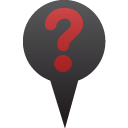
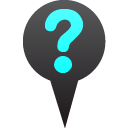
a few new tagtypes

Changed region(s): [[0.3438, 0.0625, 0.6562, 0.5938]]

diff --git a/.TexFlasher/tagger.py b/.TexFlasher/tagger.py
@@ -38,8 +38,11 @@ from difflib import get_close_matches
 import itertools, collections
 import ConfigParser
 
-
-
+def open_xml_file(file_path):
+	try:
+		return xml.parse(file_path)		  
+	except:
+		return False
 ########################################################## Comment on fc ##############################################################
 
 def tag_command(tagtype,xml_path,tags,fc_tag,canvas,item,user):
@@ -85,6 +88,42 @@ def tag_command(tagtype,xml_path,tags,fc_tag,canvas,item,user):
 		
 		
 class RectTracker:
+
+	def question_tag(self):
+	  image = Image.open(".TexFlasher/pictures/question_fix.png")
+	  image = image.resize(self.follow_size, Image.ANTIALIAS)
+	  image = ImageTk.PhotoImage(image)
+	  self.canvas.tag_follow_image=image	  
+	  self.canvas.current_tag="question"	  
+	  self.canvas.tag_fix="qu"
+	  self.canvas.tag_follow=("question",self.tags_tag)
+	  
+	def link_tag(self):
+	  image = Image.open(".TexFlasher/pictures/link_fix.png")
+	  image = image.resize(self.follow_size, Image.ANTIALIAS)
+	  image = ImageTk.PhotoImage(image)
+	  self.canvas.tag_follow_image=image
+	  self.canvas.current_tag="link"
+	  self.canvas.tag_fix="li"
+	  self.canvas.tag_follow=("link",self.tags_tag)
+
+	def repeat_tag(self):
+	  image = Image.open(".TexFlasher/pictures/repeat_fix.png")
+	  image = image.resize(self.follow_size, Image.ANTIALIAS)
+	  image = ImageTk.PhotoImage(image)
+	  self.canvas.tag_follow_image=image
+	  self.canvas.current_tag="repeat"
+	  self.canvas.tag_fix="rep"
+	  self.canvas.tag_follow=("repeat",self.tags_tag)
+
+	def watchout_tag(self):
+	  image = Image.open(".TexFlasher/pictures/watchout_fix.png")
+	  image = image.resize(self.follow_size, Image.ANTIALIAS)
+	  image = ImageTk.PhotoImage(image)
+	  self.canvas.tag_follow_image=image
+	  self.canvas.current_tag="watchout"
+	  self.canvas.tag_fix="wa"
+	  self.canvas.tag_follow=("watchout",self.tags_tag)
   
 	def __init__(self, canvas,dir,user):
 		self.canvas = canvas
@@ -93,9 +132,10 @@ class RectTracker:
 		self.user=user
 		self.canvas.tagtypes={}
 		self.canvas.tagtypes["rect"]={"xml_path":dir+"/Users/"+user+"_comment.xml","new":"re","old":"ore","type":"rectangle","command":tag_command}
-		self.canvas.tagtypes["link"]={"xml_path":dir+"/Users/links.xml","new":"li","old":"oli","type":"image","image_path":".TexFlasher/pictures/link_fix.png","command":tag_command}
-		self.canvas.tagtypes["question"]={"xml_path":dir+"/Users/questions.xml","new":"qu","old":"oqu","type":"image","image_path":".TexFlasher/pictures/question_fix.png","image_path_other":".TexFlasher/pictures/question_other.png","command":tag_command}
-
+		self.canvas.tagtypes["link"]={"init":self.link_tag,"xml_path":dir+"/Users/links.xml","new":"li","old":"oli","type":"image","image_path":".TexFlasher/pictures/link_fix.png","command":tag_command}
+		self.canvas.tagtypes["question"]={"init":self.question_tag,"xml_path":dir+"/Users/questions.xml","new":"qu","old":"oqu","type":"image","image_path":".TexFlasher/pictures/question_fix.png","image_path_other":".TexFlasher/pictures/question_other.png","command":tag_command}
+		self.canvas.tagtypes["repeat"]={"init":self.repeat_tag,"xml_path":dir+"/Users/repeat.xml","new":"rep","old":"orep","type":"image","image_path":".TexFlasher/pictures/repeat_fix.png","command":tag_command}		
+		self.canvas.tagtypes["watchout"]={"init":self.watchout_tag,"xml_path":dir+"/Users/watchout.xml","new":"wa","old":"owa","type":"image","image_path":".TexFlasher/pictures/watchout_fix.png","command":tag_command}
 		self.canvas.tags_imgs={}
 		for tagtype in self.canvas.tagtypes:
 		    try:# doesnt work for rectagle tags
@@ -110,23 +150,7 @@ class RectTracker:
 		self.fix_size=(40,40)
 		self.tags_tag="tagger"
 		
-	def question_tag(self):
-	  image = Image.open(".TexFlasher/pictures/question_follow.png")
-	  image = image.resize(self.follow_size, Image.ANTIALIAS)
-	  image = ImageTk.PhotoImage(image)
-	  self.canvas.tag_follow_image=image	  
-	  self.canvas.current_tag="question"	  
-	  self.canvas.tag_fix="qu"
-	  self.canvas.tag_follow=("question",self.tags_tag)
-	  
-	def link_tag(self):
-	  image = Image.open(".TexFlasher/pictures/link_follow.png")
-	  image = image.resize(self.follow_size, Image.ANTIALIAS)
-	  image = ImageTk.PhotoImage(image)
-	  self.canvas.tag_follow_image=image
-	  self.canvas.current_tag="link"
-	  self.canvas.tag_fix="li"
-	  self.canvas.tag_follow=("link",self.tags_tag)
+
 	  
 	def draw(self, start, end, **opts):
 		"""Draw the rectangle"""
@@ -247,15 +271,12 @@ def create_comment_canvas(c,dir,fc_tag,user):
 		    pass
 	def kill_xy(event=None):
 		c.delete("tagger")
-	def switch_tag(direction):
-	    if c.current_tag=="question":
-		rect.link_tag() #default start tag
-	    else:
-		rect.question_tag()
 		
-        c.bind('<4>', lambda event : switch_tag("next"))
-        c.bind('<5>', lambda event : switch_tag("back"))
-        
+	def switch_tag(direction):
+		rect.watchout_tag()
+		
+	c.bind('<4>', lambda event : switch_tag("next"))
+	c.bind('<5>', lambda event : switch_tag("back"))        
 	c.bind('<Motion>', cool_design, '+')	
 	c.bind('<Enter>',cool_design,'+')
 	c.bind('<Leave>',kill_xy)

diff --git a/.TexFlasher/leitner.py b/.TexFlasher/leitner.py
@@ -976,6 +976,8 @@ def answer(selected_dir,agenda,ldb, flashcard_tag, listPosition,c):
 	
 	
 	create_comment_canvas(c,selected_dir,flashcard_tag,Settings['user'])	
+
+		
 	#Button(top,command=c.rect.link_tag,image=c.tags_imgs['link']).grid(row=2,column=4,sticky=E)		    
 #	fc_pos=int(c.order.getElementsByTagName(flashcard_tag)[0].getAttribute('position'))
 #	c.flow.goto(fc_pos)
